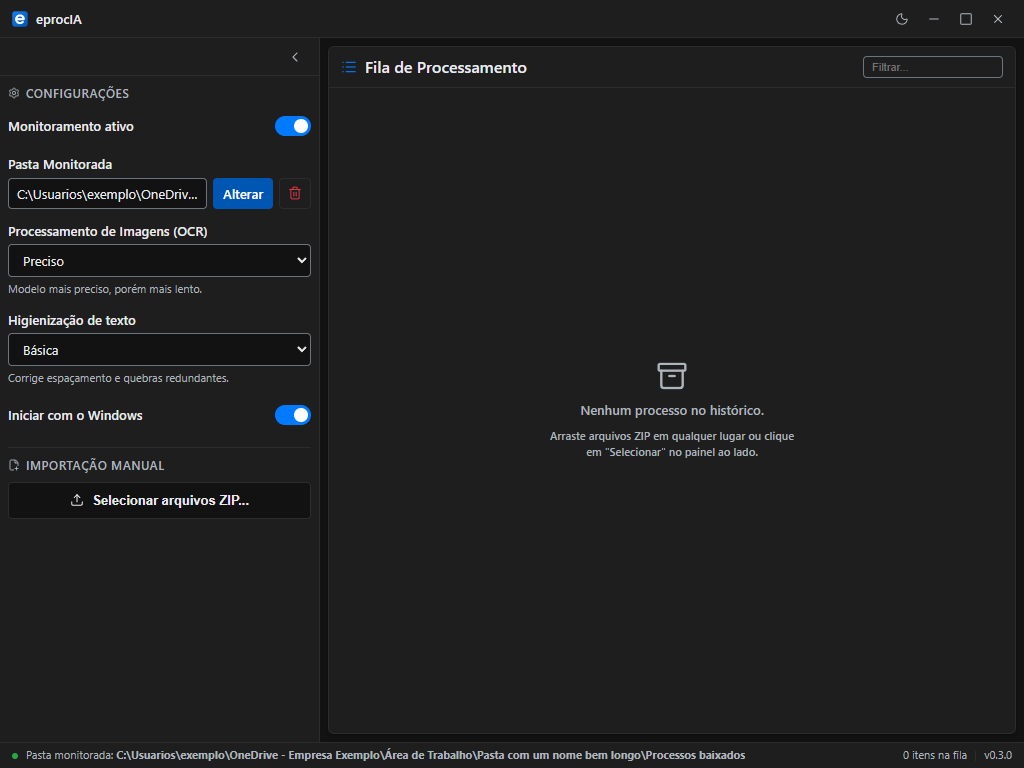
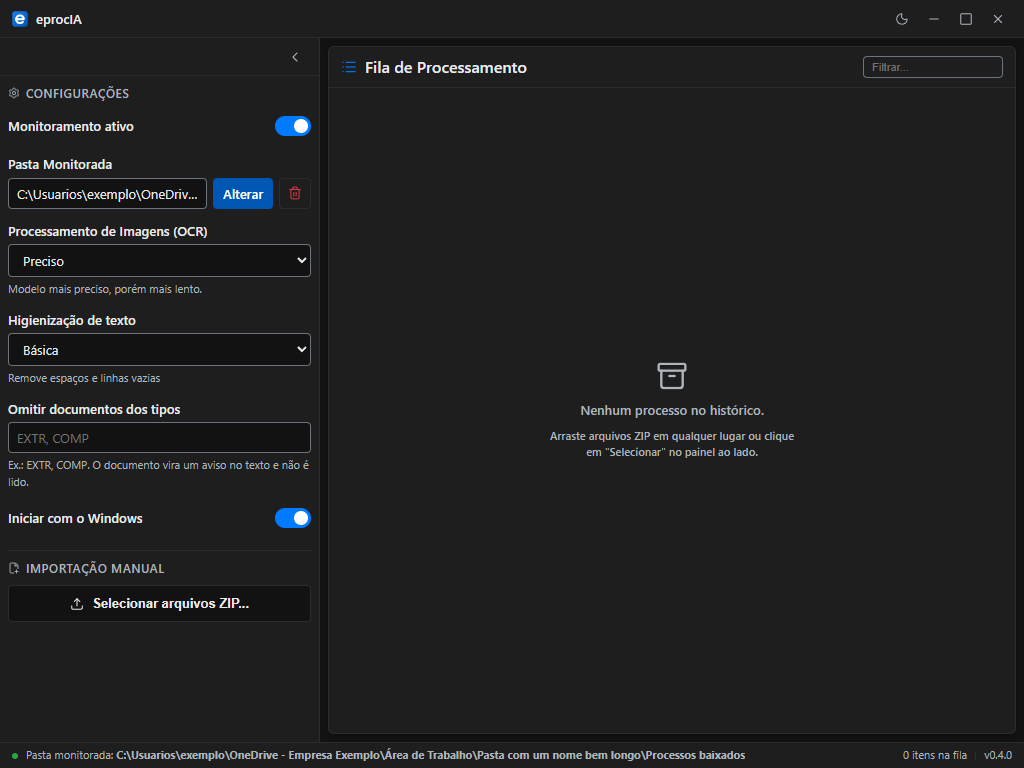
docs: README atualizado para a main e capturas novas
O README ainda descrevia a v0.3.0. Agora cobre o que está na main:
quatro níveis de higienização (Padrão é o default), omissão por tipo de
documento, andamento por documento, reprocessamento, bandeja com duplo
clique e instância única.

- Formato da saída: exemplo sem recuo, com <pag n="...">, documento de
  uma página sem <pag> e os marcadores da higienização.
- Limitações conhecidas: PDFs que a biblioteca não abre (PDF 2.0,
  envelope PKCS#7, AES, xref inconsistente) e como perceber no .txt.
- Nota de que o README segue a main e a v0.3.0 ainda não tem os
  recursos novos (remover ao publicar a próxima release).
- Desenvolvimento: workflows de segurança e de release, atestação de
  procedência, estrutura do código e componentes de terceiros.
- Capturas refeitas com dados fictícios; duas novas (atividade e
  reprocessar).

Claude-Session: https://claude.ai/code/session_01YKHKdzvxGBDhYx5JAnxJoZ

diff --git a/README.md b/README.md
@@ -49,20 +49,27 @@ O eprocIA faz tudo isso sozinho. Ele fica na bandeja do Windows, vigia a pasta d
 | 👀 | **Vigia a pasta** | Detecta ZIPs novos na pasta escolhida e espera o download terminar antes de começar. ZIPs que chegaram com o app fechado são processados ao abrir (janela de 24 h). |
 | 📚 | **Lê sem descompactar** | PDFs e HTMLs são lidos direto de dentro do ZIP, sem espalhar arquivos pelo disco. |
 | 🔢 | **Ordena por evento** | "Evento 2" vem antes de "Evento 10" (ordenação natural); arquivos sem número de evento vão para o fim. |
-| 🔍 | **OCR embutido** | Páginas escaneadas ou desenhadas como vetor passam pelo Tesseract em português, já incluso no executável. O OCR roda em lote, por bloco de páginas. |
-| 🧹 | **Higieniza o texto** | Corrige espaços e quebras e, no nível agressivo, remove cabeçalhos e rodapés que se repetem entre as páginas. |
+| 🔍 | **OCR embutido** | Páginas escaneadas, desenhadas como vetor ou com texto nativo ilegível passam pelo Tesseract em português, já incluso no executável. O OCR roda em lote, por bloco de páginas. |
+| 🧹 | **Higieniza o texto** | Quatro níveis. O Padrão remove cabeçalhos, rodapés e timbres que se repetem, resume as chancelas de assinatura numa linha e troca páginas e documentos repetidos por uma referência ao original. O Máxima também tira ruído de OCR e junta parágrafos quebrados. |
+| 🚫 | **Omite tipos de documento** | Informe os códigos (por exemplo `EXTR, COMP`) e esses documentos não são lidos nem passam por OCR: viram um aviso de uma linha no texto. |
+| 📊 | **Mostra o andamento por documento** | Abra o item em processamento para ver cada documento (aguardando, lendo, em OCR, concluído ou com erro) e quantos processos de OCR estão rodando. |
+| 🔁 | **Reprocessa com outras opções** | Um item terminado pode ser refeito com outro modo de OCR ou outro nível de higienização, só para aquele arquivo. |
 | 🔤 | **Estima tokens** | Cada processo concluído mostra quantos tokens o texto deve ocupar no modelo. |
 | 📋 | **Copia com um clique** | O botão de copiar põe o `.txt` inteiro na área de transferência. |
 | 🔔 | **Avisa quando termina** | Notificação do Windows quando o processamento acaba com a janela oculta. |
+| 🪟 | **Fica na bandeja** | Fechar a janela só a oculta. Duplo clique no ícone da bandeja reabre, e "Sair" no menu encerra. Só uma instância roda por executável: abrir de novo mostra um aviso apontando para o ícone na bandeja. |
 | 🚀 | **Inicia com o Windows** | Sobe oculto na bandeja no logon, já vigiando a pasta. |
 | 🌗 | **Tema claro e escuro** | Segue o sistema por padrão; a escolha manual fica gravada. |
 | ♿ | **Acessível** | Navegação por teclado, foco visível, anúncios para leitor de tela e respeito à preferência por menos movimento. |
+
+> [!NOTE]
+> Este README descreve o código da branch `main`. A versão publicada (v0.3.0) ainda não tem os níveis Padrão e Máxima de higienização, a omissão por tipo, o andamento por documento, o reprocessamento, o duplo clique na bandeja nem a instância única. Eles chegam na próxima release.
 
 ## 🖼 Telas
 
 <table>
   <tr>
-    <td width="50%"><img src="docs/imagens/configuracoes.png" alt="Painel de configurações: monitoramento, pasta, modo de OCR, higienização e início com o Windows"></td>
+    <td width="50%"><img src="docs/imagens/configuracoes.png" alt="Painel de configurações: monitoramento, pasta, modo de OCR, higienização, tipos de documento a omitir e início com o Windows"></td>
     <td width="50%"><img src="docs/imagens/fila-pausada.png" alt="Fila pausada no tema claro, com um item que falhou, um concluído e um em processamento"></td>
   </tr>
   <tr>
@@ -70,10 +77,18 @@ O eprocIA faz tudo isso sozinho. Ele fica na bandeja do Windows, vigia a pasta d
     <td align="center"><sub>⏸ Fila pausada: o item atual termina, os próximos esperam</sub></td>
   </tr>
   <tr>
-    <td colspan="2"><img src="docs/imagens/painel-recolhido.png" alt="Painel lateral recolhido, com a fila ocupando a janela inteira"></td>
+    <td width="50%"><img src="docs/imagens/atividade.png" alt="Item em processamento aberto, com a lista de documentos, o estado de cada um e a contagem de processos de OCR em andamento"></td>
+    <td width="50%"><img src="docs/imagens/reprocessar.png" alt="Formulário de reprocessamento de um item concluído, com seletores de OCR e de higienização"></td>
   </tr>
   <tr>
-    <td colspan="2" align="center"><sub>↔ Painel recolhido; o divisor também se ajusta pelo teclado e a largura fica lembrada</sub></td>
+    <td align="center"><sub>📊 Andamento por documento e processos de OCR em paralelo</sub></td>
+    <td align="center"><sub>🔁 Reprocessar um item com outras opções, só para aquele arquivo</sub></td>
+  </tr>
+  <tr>
+    <td colspan="2"><img src="docs/imagens/painel-recolhido.png" alt="Painel lateral recolhido numa barra estreita com o círculo de monitoramento e os atalhos de envio, OCR e higienização; a fila ocupa o resto da janela"></td>
+  </tr>
+  <tr>
+    <td colspan="2" align="center"><sub>↔ Painel recolhido: o círculo liga e desliga o monitoramento, e os atalhos trocam o OCR e a higienização; o divisor também se ajusta pelo teclado e a largura fica lembrada</sub></td>
   </tr>
 </table>
 
@@ -83,9 +98,9 @@ O eprocIA faz tudo isso sozinho. Ele fica na bandeja do Windows, vigia a pasta d
 flowchart LR
     A["📥 ZIP do Eproc<br>na pasta vigiada"] --> B["📚 Lista PDFs e HTMLs<br>dentro do ZIP"]
     B --> C["🔢 Ordena por<br>número do evento"]
-    C --> D{"Página tem<br>texto?"}
+    C --> D{"Página tem<br>texto legível?"}
     D -- sim --> E["📝 Texto nativo"]
-    D -- "não, só imagem" --> F["🔍 OCR em lote<br>(Tesseract)"]
+    D -- "não: imagem, vetor<br>ou texto ilegível" --> F["🔍 OCR em lote<br>(Tesseract)"]
     E --> G["🧹 Higienização"]
     F --> G
     G --> H["📄 processo.txt<br>ao lado do ZIP"]
@@ -93,7 +108,8 @@ flowchart LR
 
 - A fila processa **um ZIP por vez**, do mais antigo para o mais novo, e pode ser pausada, retomada ou cancelada.
 - Dentro de um ZIP, os documentos são processados **em paralelo**, limitados ao número de núcleos da máquina.
-- O OCR só entra quando a página não tem texto nativo suficiente e tem imagens grandes ou texto desenhado como vetor.
+- O OCR só entra quando a página não tem texto nativo suficiente e tem imagens grandes ou texto desenhado como vetor, ou quando o texto nativo sai ilegível.
+- Documentos dos tipos que você mandou omitir não são abertos: o tempo de leitura e de OCR deles é poupado.
 
 ## 📄 Formato da saída
 
@@ -101,29 +117,57 @@ O `.txt` sai com o mesmo nome do ZIP e segue o formato do [PRD §6](PRD.md):
 
 ```xml
 <contexto>
-    PROCESSO JUDICIAL - ORDEM CRONOLÓGICA
-    Total de Documentos: 57
-    Data de Consolidação: 24/10/2026 17:44:02
-    Tokens estimados: 98450
+PROCESSO JUDICIAL - ORDEM CRONOLÓGICA
+Total de Documentos: 57
+Data de Consolidação: 10/11/2026 17:44:02
+Tokens estimados: 98450
 
-    <summary>
-    - Evento 1 - INIC1: 3 páginas
-    - Evento 1 - PROC2: 1 página
-    - Evento 5 - DESPACHO: 1 página
-    </summary>
+<summary>
+- Evento 1 - INIC1: 3 páginas
+- Evento 1 - PROC2: 1 página
+- Evento 3 - EXTR1: 12 páginas
+</summary>
 </contexto>
 
 <evento num="1">
-    <documento index="1" nome="Evento 1 - INIC1.pdf">
-        <pag num="1">
-            [texto da petição inicial...]
-        </pag>
-    </documento>
+<documento index="1" nome="Evento 1 - INIC1.pdf">
+<pag n="1">
+[texto da petição inicial...]
+</pag>
+<pag n="2">
+[...]
+[assinado: FULANO DE TAL, ADVOGADO, 02/03/2026]
+</pag>
+</documento>
+<documento index="2" nome="Evento 1 - PROC2.pdf">
+[texto da procuração, que tem uma página só]
+</documento>
+</evento>
+<evento num="3">
+<documento index="3" nome="Evento 3 - EXTR1.pdf">
+[documento omitido: EXTR, 12 páginas]
+</documento>
 </evento>
 ```
 
+- O texto sai sem recuo, para não gastar tokens.
+- Documento com uma página só não leva `<pag>`, e página vazia não é escrita.
+- A higienização deixa marcadores no lugar do que tirou: `[assinado: NOME, CARGO, DATA]` para a chancela de assinatura, `[conteúdo idêntico a: evento N, DOCUMENTO, pág. P]` e `[documento idêntico a: evento N, DOCUMENTO]` para repetições, e `[documento omitido: TIPO, N páginas]` para os tipos omitidos.
+- Uma falha fica escrita no lugar do texto, começando por `[ERRO` (por exemplo `[ERRO ao analisar PDF: ...]`).
+
 > [!TIP]
 > As tags `<evento>`, `<documento>` e `<pag>` deixam a IA citar a peça e a página exatas ("Evento 5, despacho, página 1").
+
+## ⚠ Limitações conhecidas
+
+Alguns PDFs do Eproc não são lidos pela biblioteca de PDF que o eprocIA usa. Em três processos medidos, isso atingiu cerca de 1 em cada 10 PDFs. São quatro casos:
+
+- PDF na versão 2.0 (comum em avisos de recebimento dos Correios);
+- PDF dentro de um envelope de assinatura digital (PKCS#7);
+- PDF com criptografia AES, mesmo sem senha;
+- PDF com a tabela de referências inconsistente.
+
+O documento não lido fica no `.txt` como `[ERRO ao analisar PDF: ...]`, sem o conteúdo, e **o item ainda aparece como concluído na fila**. Antes de confiar numa análise, procure por `[ERRO` no `.txt` ou abra o item e veja se há documentos "com erro". O conserto (um aviso claro de documentos não lidos e um segundo leitor para esses PDFs) está previsto para a próxima release.
 
 ## 📥 Instalação
 
@@ -135,6 +179,9 @@ O `.txt` sai com o mesmo nome do ZIP e segue o formato do [PRD §6](PRD.md):
 
 > [!NOTE]
 > O executável não tem assinatura digital, então o SmartScreen pode avisar na primeira execução. Clique em **Mais informações** e depois em **Executar assim mesmo**. Confira o arquivo com o `SHA256SUMS.txt` da release, se quiser.
+
+> [!NOTE]
+> As releases posteriores à v0.3.0 são compiladas pelo GitHub Actions a partir da tag e levam uma atestação de procedência, que liga cada arquivo ao commit e ao workflow que o gerou. Veja como conferir no [`SECURITY.md`](SECURITY.md).
 
 Requisitos: Windows 10 ou 11 (64 bits) com o WebView2, que já vem no Windows 11.
 
@@ -170,7 +217,8 @@ Com opções:
 | Opção | Valores | O que muda |
 |---|---|---|
 | 🔍 **Processamento de imagens (OCR)** | Desativado · Rápido · **Normal** · Preciso | Modelo do Tesseract usado nas páginas escaneadas. "Desativado" deixa essas páginas sem texto. |
-| 🧹 **Higienização de texto** | Nenhuma · **Básica** · Agressiva | Nenhuma preserva o texto bruto; Básica corrige espaçamento e quebras; Agressiva também remove cabeçalhos e rodapés repetidos. |
+| 🧹 **Higienização de texto** | Nenhuma · Básica · **Padrão** · Máxima | Nenhuma preserva o texto como extraído; Básica remove espaços e linhas vazias; Padrão também remove cabeçalhos, rodapés e duplicatas e resume assinaturas; Máxima acrescenta a limpeza de ruído de OCR e junta parágrafos. |
+| 🚫 **Omitir documentos dos tipos** | códigos separados por vírgula (ex.: `EXTR, COMP`) | O documento desses tipos vira um aviso no texto e não é lido. |
 | 👀 **Monitoramento ativo** | liga/desliga | Vigia ou não a pasta escolhida. Arrastar ZIPs para a janela funciona sempre. |
 | 🚀 **Iniciar com o Windows** | liga/desliga | Abre oculto na bandeja no logon. |
 
@@ -192,6 +240,7 @@ wails dev
 go vet ./...
 go test ./... -race
 cd frontend && npm run check && npm run build
+node --test frontend/*.test.mjs
 
 # Gate completo: vet, test -race, wails build e smoke de 5 s
 pwsh scripts/build/gate.ps1
@@ -201,23 +250,33 @@ wails build -clean -nsis
 ```
 
 > [!IMPORTANT]
-> O Wails CLI v2.12.0 publicado não funciona com Go 1.27 (`package "bytes" without types was imported`). Recompile-o uma vez com `pwsh scripts/build/recompilar-wails.ps1`.
+> O Wails CLI publicado (v2.12.0 e v2.13.0) não funciona com Go 1.27 (`package "bytes" without types was imported`). Recompile-o uma vez com `pwsh scripts/build/recompilar-wails.ps1`.
 
-O CI ([`.github/workflows/ci.yml`](.github/workflows/ci.yml)) roda num runner Windows a cada push ou pull request para `main`: `svelte-check`, build do frontend, testes em Node, `gofmt`, `go vet`, `go test -race` com OCR real e `wails build`.
+Três workflows rodam no GitHub Actions:
+
+- [`ci.yml`](.github/workflows/ci.yml), num runner Windows a cada push ou pull request para `main`: `svelte-check`, build do frontend, testes em Node, `gofmt`, `go vet`, `go test -race` com OCR real e `wails build`.
+- [`security.yml`](.github/workflows/security.yml), a cada push e toda semana: osv-scanner nos lockfiles e govulncheck. As exceções ficam em [`osv-scanner.toml`](osv-scanner.toml), cada uma com motivo e validade.
+- [`release.yml`](.github/workflows/release.yml), a partir de uma tag `v*`: compila o exe e o instalador, gera o `SHA256SUMS.txt` e a atestação de procedência e deixa a release como rascunho para revisão. As tags `v*` são imutáveis.
+
+Para relatar uma vulnerabilidade, siga o [`SECURITY.md`](SECURITY.md).
 
 <details>
 <summary>🗂 <b>Estrutura do código</b></summary>
 
 | Caminho | Papel |
 |---|---|
-| `main.go`, `app.go` | Janela Wails, bandeja do Windows e métodos expostos ao frontend |
-| `internal/etl/` | Fila, pipeline, leitura do ZIP, PDF e HTML, ordenação e formatação da saída |
+| `main.go`, `app.go` | Janela Wails e métodos expostos ao frontend |
+| `bandeja.go`, `instancia*.go` | Ícone e menu da bandeja; trava de instância única por executável |
+| `internal/etl/` | Fila, pipeline, leitura do ZIP, PDF e HTML, ordenação, higienização e formatação da saída |
+| `internal/models/` | Tipos compartilhados entre os pacotes |
+| `internal/janela/` | Animação de ocultar e mostrar a janela |
 | `internal/ocr/` | Extração dos binários embutidos e execução do pdftoppm e do Tesseract |
 | `internal/watchdog/` | Vigia da pasta (fsnotify) e varredura de ZIPs pendentes ao abrir |
 | `internal/config/` | `config.json` com valores padrão e gravação atômica |
 | `internal/autostart/` | Chave `Run` do registro para iniciar com o Windows |
 | `frontend/src/` | Interface em Svelte 5 |
 | `scripts/` | Gate de build, benchmarks, capturas visuais e gerador de ícone |
+| `.github/workflows/` | CI, varredura de segurança e release |
 | `PRD.md`, `DESIGN.md` | Especificação do produto e do visual |
 
 </details>
@@ -245,6 +304,7 @@ O executável inclui:
 - [Tesseract OCR](https://github.com/tesseract-ocr/tesseract) 5.5.0 e os modelos `tessdata` (Apache 2.0)
 - [Poppler](https://poppler.freedesktop.org/) 25.07.0 `pdftoppm` e suas DLLs (GPL; código-fonte em [poppler-25.07.0.tar.xz](https://poppler.freedesktop.org/poppler-25.07.0.tar.xz))
 - [Wails](https://wails.io) (MIT), [Svelte](https://svelte.dev) (MIT), [Lucide](https://lucide.dev) (ISC)
+- [energye/systray](https://github.com/energye/systray) (Apache 2.0), [dslipak/pdf](https://github.com/dslipak/pdf) e [fsnotify](https://github.com/fsnotify/fsnotify) (BSD de 3 cláusulas)
 
 <div align="center">
 <br>
